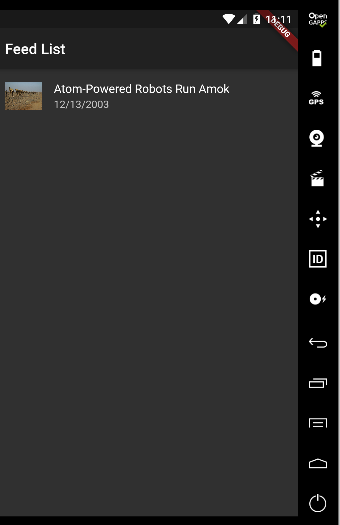
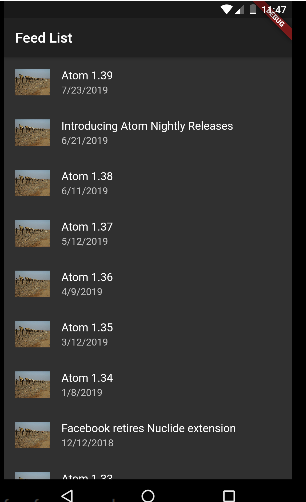
small refactoring

diff --git a/lib/util/util.dart b/lib/util/util.dart
@@ -3,17 +3,13 @@ import 'package:webfeed/domain/atom_feed.dart';
 import 'package:http/http.dart' as http;
 
 class Util {
- var _sample = '<?xml version="1.0" encoding="utf-8"?><feed xmlns="http://www.w3.org/2005/Atom"><title>Example Feed</title><link href="http://example.org/"/><updated>2003-12-13T18:30:02Z</updated><author><name>John Doe</name></author><id>urn:uuid:60a76c80-d399-11d9-b93C-0003939e0af6</id><entry><title>Atom-Powered Robots Run Amok</title><link href="http://example.org/2003/12/13/atom03"/><id>urn:uuid:1225c695-cfb8-4ebb-aaaa-80da344efa6a</id><content>Sample content</content><published>2003-12-13T18:30:02Z</published><updated>2003-12-13T18:30:02Z</updated><summary>Some text.</summary></entry></feed>';
-
-  /// UNCOMMENT THE FOLLOWING FOR REAL `http` CALL
   getFeed() async {
-    // final response = await http.get(Constants.FEED_URL); // if not 'await', it will return Future<Obj>
-    // if(response.statusCode == 200){
-    //   return AtomFeed.parse(response.body);
-    // } else {
-    //   throw Exception("Unable to get data!");
-    // }
-    return AtomFeed.parse(_sample);
+    final response = await http.get(Constants.FEED_URL); // if not 'await', it will return Future<Obj>
+    if(response.statusCode == 200){
+      return AtomFeed.parse(response.body);
+    } else {
+      throw Exception("Unable to get data!");
+    }
   }
 
 // === UTIL methods ===

diff --git a/lib/main.dart b/lib/main.dart
@@ -13,14 +13,13 @@ class MyApp extends StatelessWidget {
       onGenerateRoute: _routes(),
       home: new Scaffold(
         appBar: new AppBar(
-            title: new Text(Constants.APP_TITLE)
-          ),
+          title: new Text(Constants.APP_TITLE),
+        ),
         body: new FeedList(),
       ),
     );
   }
 
-  
   RouteFactory _routes() {
     return (settings) {
       final Map<String, dynamic> arguments = settings.arguments;
@@ -30,7 +29,9 @@ class MyApp extends StatelessWidget {
           screen = FeedList();
           break;
         case Constants.FeedDetailRoute:
-          screen = FeedDetail(item: arguments['data']); //{@code data} defined/passed in Navigator.pushNamed(...)
+          screen = FeedDetail(
+              item: arguments[
+                  'data']); //{@code data} defined/passed in Navigator.pushNamed(...)
           break;
         default:
           return null;
@@ -39,4 +40,3 @@ class MyApp extends StatelessWidget {
     };
   }
 }
-

diff --git a/lib/screens/feed_detail/feed_detail.dart b/lib/screens/feed_detail/feed_detail.dart
@@ -1,3 +1,5 @@
+import 'dart:developer';
+
 import 'package:atom_reader/widgets/web_view_container.dart';
 import 'package:flutter/material.dart';
 import 'package:webfeed/domain/atom_item.dart';
@@ -14,6 +16,16 @@ class FeedDetail extends StatelessWidget {
       home: new Scaffold(
         appBar: new AppBar(
           title: new Text(item.title),
+          leading: new IconButton(
+            icon: new Icon(Icons.arrow_back, color: Colors.white),
+            onPressed: () => Navigator.of(context).pop(),
+          ),
+          actions: <Widget>[
+            IconButton(
+              icon: Icon(Icons.favorite),
+              onPressed: () => log("on tap pressed"),
+            )
+          ],
         ),
         body: SafeArea(
           // SafeArea: prevents content from going under notch, the small cutout on top of the phone

diff --git a/lib/util/constants.dart b/lib/util/constants.dart
@@ -6,7 +6,7 @@ class Constants {
 
   static const String DEFAULT_LEADING_IMAGE = 'assets/images/default.jpg';
 
-  static const FEED_URL = "https://flutter-academy.com/rss.xml";
+  static const FEED_URL = "https://blog.atom.io/feed.xml";
 
 
    /// Routes in our app
